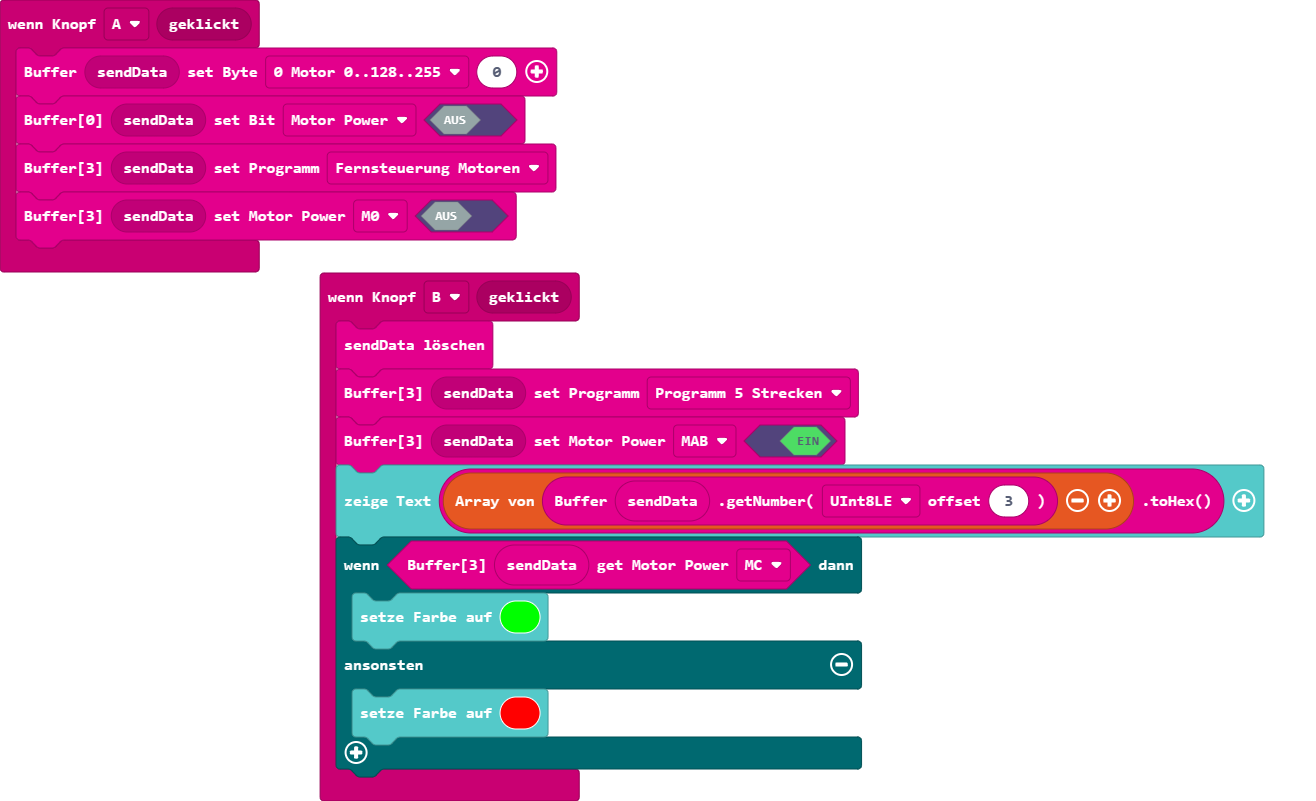
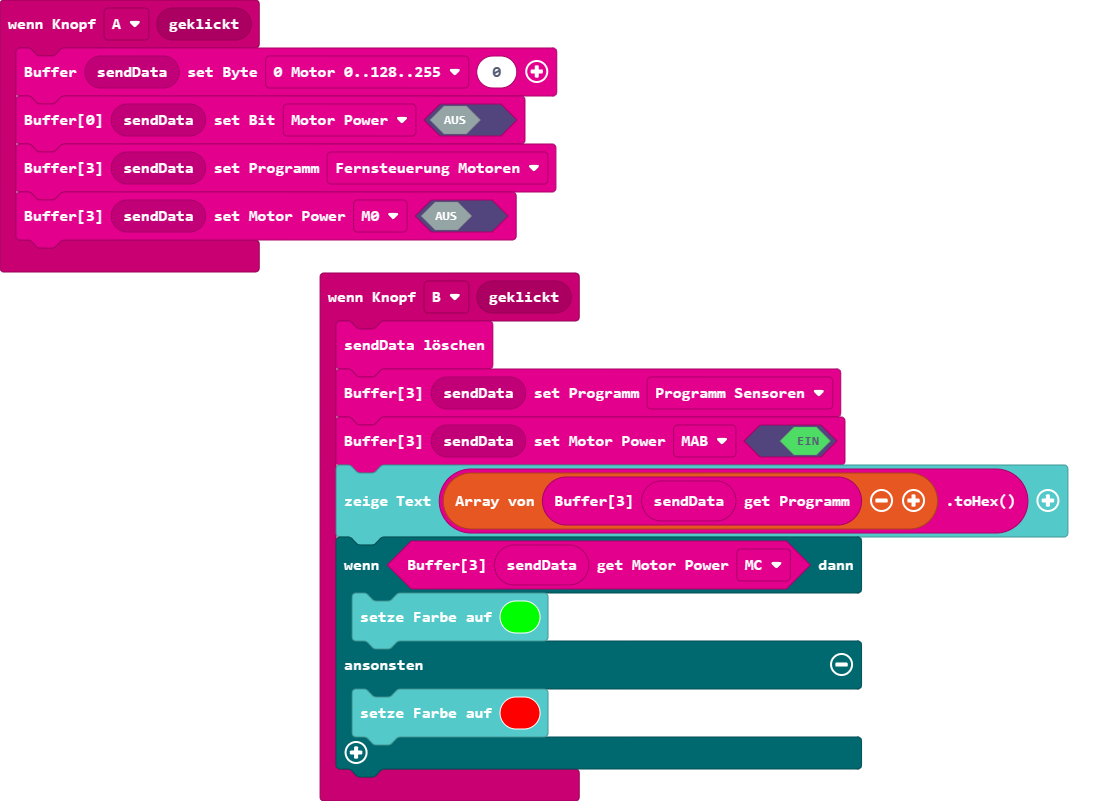
Aktualisiere main.blocks, main.ts, radiodata19.ts

Changed region(s): [[0.0, 0.0, 0.9688, 1.0], [0.625, 0.7803, 0.7812, 0.8739], [0.6562, 0.9051, 0.7812, 0.9675]]

diff --git a/radiodata19.ts b/radiodata19.ts
@@ -54,24 +54,46 @@ für CalliBot, MakerKitCar, CaR4
     //% pBuffer.shadow="radio_sendBuffer19"
     //% inlineInputMode=inline 
     export function setByte(pBuffer: Buffer, pBufferOffset: eBufferOffset, pByte: number, pBufferPointer?: eBufferPointer) {
-        if (!pBufferPointer) pBufferPointer = eBufferPointer.p0  // wenn nicht angegeben internen Wert nehmen
-        switch (pBufferOffset) {
-            case eBufferOffset.b1_Servo:
-                pBuffer[pBufferPointer + eBufferOffset.b1_Servo] &= 0b11100000 // AND Bit 7-6-5 bleiben; 4-3-2-1-0 auf 0 setzen
-                pBuffer[pBufferPointer + eBufferOffset.b1_Servo] |= (pByte & 0b00011111) // OR Bit 7-6-5 bleiben; 4-3-2-1-0 auf pByte setzen
-                //pBuffer[pBufferPointer + eBufferOffset.b1_Servo] |= (Math.round(pByte / 3 - 14) & 0b00011111) // OR Bit 7-6-5 bleiben; 4-3-2-1-0 auf Ergebnis setzen
+        if (!pBufferPointer) pBufferPointer = eBufferPointer.p0  // wenn nicht angegeben
 
-                //n_sendBuffer19.setUint8(pBufferPointer + pBufferOffset, Math.round(pByte / 3 - 14) & 0b00011111)
-                break
-            //case eBufferOffset.b1_3Bit:
-            //    pBuffer[pBufferPointer + eBufferOffset.b1_Servo] &= 0b00011111 // AND Bit 4-3-2-1-0 bleiben; 7-6-5 auf 0 setzen
-            //    pBuffer[pBufferPointer + eBufferOffset.b1_Servo] |= (pByte << 5) // OR Bit 4-3-2-1-0 bleiben
-            //    break
-            default: // b0_Motor und b2_Fahrstrecke 0..255
-                pBuffer.setUint8(pBufferPointer + pBufferOffset, pByte)
-                break
+        if (pBufferOffset == eBufferOffset.b1_Servo) {
+            pBuffer[pBufferPointer + pBufferOffset] &= 0b11100000 // AND Bit 7-6-5 bleiben; 4-3-2-1-0 auf 0 setzen
+            pBuffer[pBufferPointer + pBufferOffset] |= (pByte & 0b00011111) // OR Bit 7-6-5 bleiben; 4-3-2-1-0 auf pByte setzen
+        } else {
+            pBuffer.setUint8(pBufferPointer + pBufferOffset, pByte)
+        }
+
+        /* 
+                switch (pBufferOffset) {
+                    case eBufferOffset.b1_Servo:
+                        pBuffer[pBufferPointer + pBufferOffset] &= 0b11100000 // AND Bit 7-6-5 bleiben; 4-3-2-1-0 auf 0 setzen
+                        pBuffer[pBufferPointer + pBufferOffset] |= (pByte & 0b00011111) // OR Bit 7-6-5 bleiben; 4-3-2-1-0 auf pByte setzen
+                        //pBuffer[pBufferPointer + eBufferOffset.b1_Servo] |= (Math.round(pByte / 3 - 14) & 0b00011111) // OR Bit 7-6-5 bleiben; 4-3-2-1-0 auf Ergebnis setzen
+        
+                        //n_sendBuffer19.setUint8(pBufferPointer + pBufferOffset, Math.round(pByte / 3 - 14) & 0b00011111)
+                        break
+                    //case eBufferOffset.b1_3Bit:
+                    //    pBuffer[pBufferPointer + eBufferOffset.b1_Servo] &= 0b00011111 // AND Bit 4-3-2-1-0 bleiben; 7-6-5 auf 0 setzen
+                    //    pBuffer[pBufferPointer + eBufferOffset.b1_Servo] |= (pByte << 5) // OR Bit 4-3-2-1-0 bleiben
+                    //    break
+                    default: // b0_Motor und b2_Fahrstrecke 0..255
+                        pBuffer.setUint8(pBufferPointer + pBufferOffset, pByte)
+                        break
+                } */
+    }
+
+    //% group="Datenpaket auswerten" subcategory="Buffer"
+    //% block="Buffer %pBuffer get Byte %pOffset || %pBufferPointer " weight=7
+    export function getByte(pBuffer: Buffer, pBufferOffset: eBufferOffset, pBufferPointer?: eBufferPointer) {
+        if (!pBufferPointer) pBufferPointer = eBufferPointer.p0  // wenn nicht angegeben
+
+        if (pBufferOffset == eBufferOffset.b1_Servo) {
+            return pBuffer[pBufferPointer + eBufferOffset.b1_Servo] & 0b00011111 // AND Bit 7-6-5 löschen
+        } else {
+            return pBuffer.getUint8(pBufferPointer + pBufferOffset)
         }
     }
+
 
     export enum eMotorBit {
         M0 = 0b000001,
@@ -104,6 +126,12 @@ für CalliBot, MakerKitCar, CaR4
     export function setProgramm(pBuffer: Buffer, pProgramm: eProgramm) {
         pBuffer[eBufferPointer.p0 + eBufferOffset.b2_Fahrstrecke] &= 0b00111111 // AND Bit 5-4-3-2-1-0 bleiben; 7-6 auf 0 setzen
         pBuffer[eBufferPointer.p0 + eBufferOffset.b2_Fahrstrecke] |= (pProgramm & 0b11000000) // OR Bit 5-4-3-2-1-0 bleiben; 7-6 auf pByte setzen
+    }
+
+    //% group="Datenpaket auswerten" subcategory="Buffer"
+    //% block="Buffer[3] %pBuffer get Programm" weight=6
+    export function getProgramm(pBuffer: Buffer): eProgramm {
+        return (pBuffer[eBufferPointer.p0 + eBufferOffset.b2_Fahrstrecke] & 0b11000000)
     }
 
 

diff --git a/main.ts b/main.ts
@@ -6,9 +6,9 @@ input.onButtonEvent(Button.A, input.buttonEventClick(), function () {
 })
 input.onButtonEvent(Button.B, input.buttonEventClick(), function () {
     radio.fill_sendBuffer19()
-    radio.setProgramm(radio.radio_sendBuffer19(), radio.eProgramm.p2)
+    radio.setProgramm(radio.radio_sendBuffer19(), radio.eProgramm.p3)
     radio.setMotorPower(radio.radio_sendBuffer19(), radio.eMotorBit.MAB, true)
-    basic.showString(radio.toHex([radio.getNumber(radio.radio_sendBuffer19(), NumberFormat.UInt8LE, 3)]))
+    basic.showString(radio.toHex([radio.getProgramm(radio.radio_sendBuffer19())]))
     if (radio.getMotorPower(radio.radio_sendBuffer19(), radio.eMotorBit.MC)) {
         basic.setLedColor(0x00ff00)
     } else {
